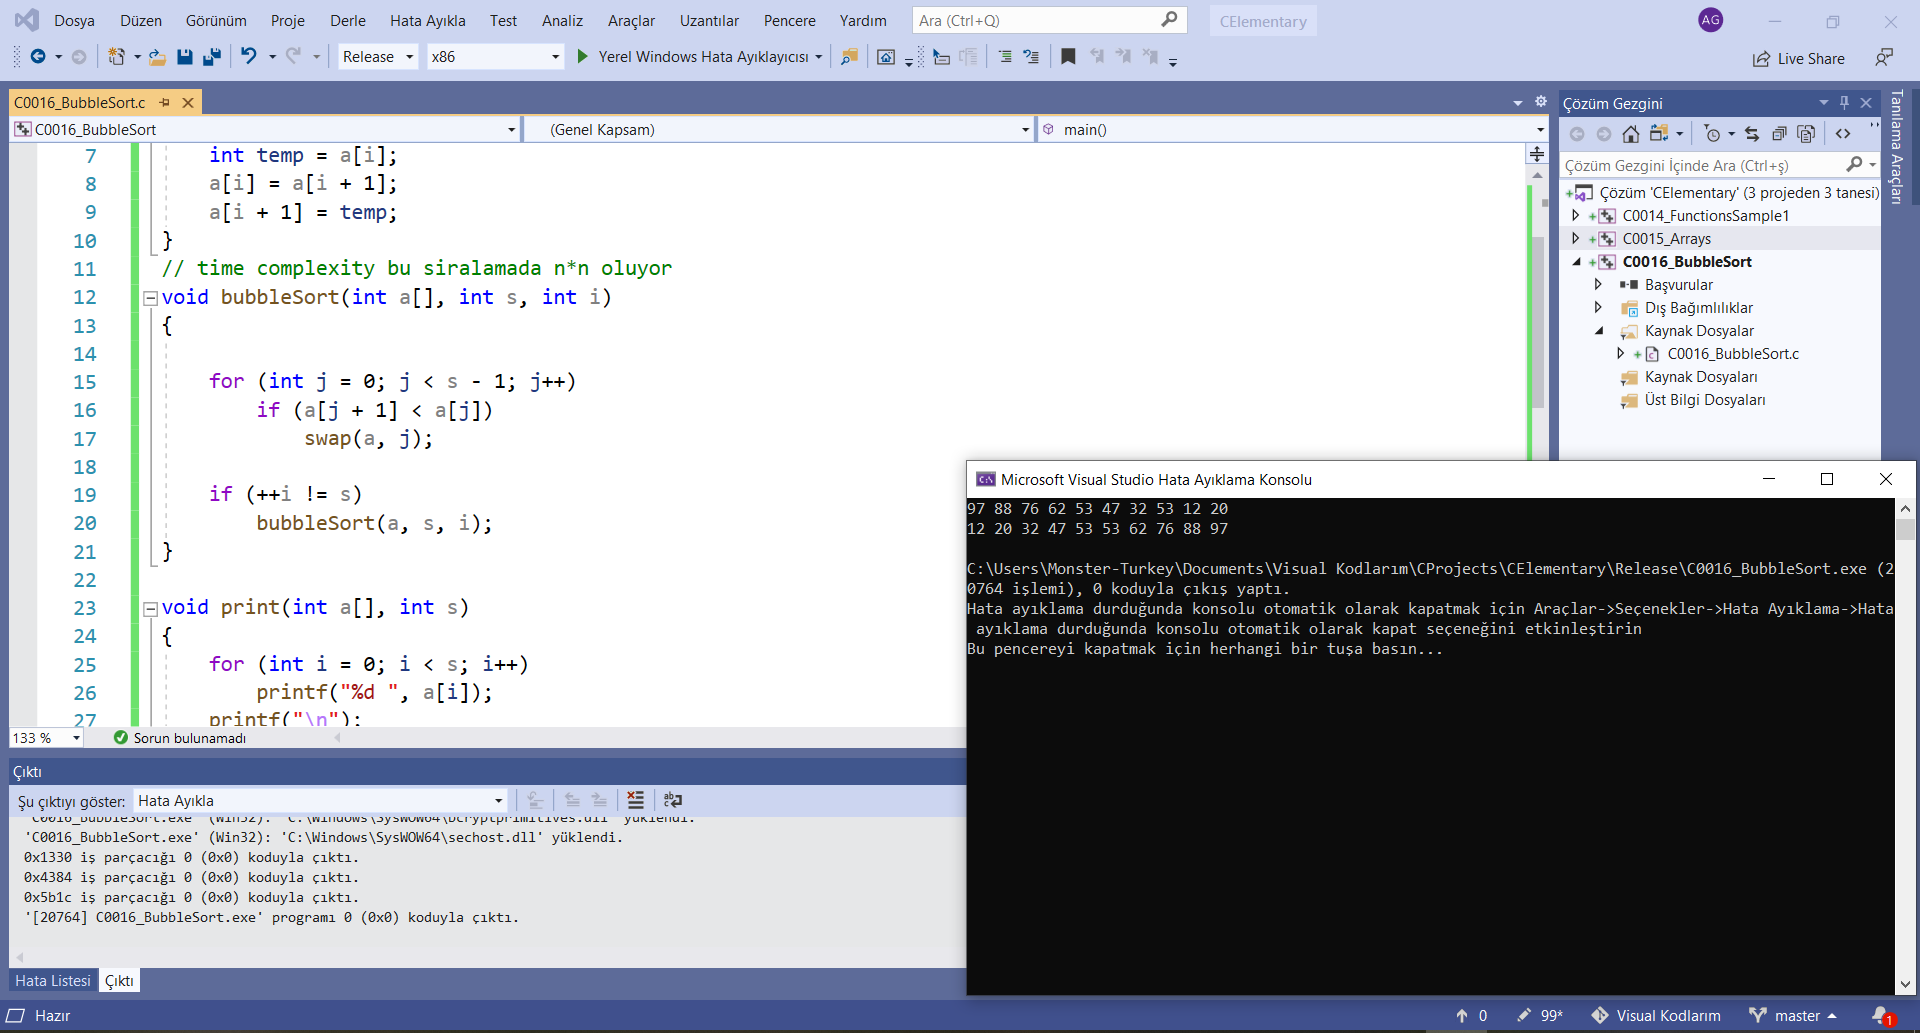
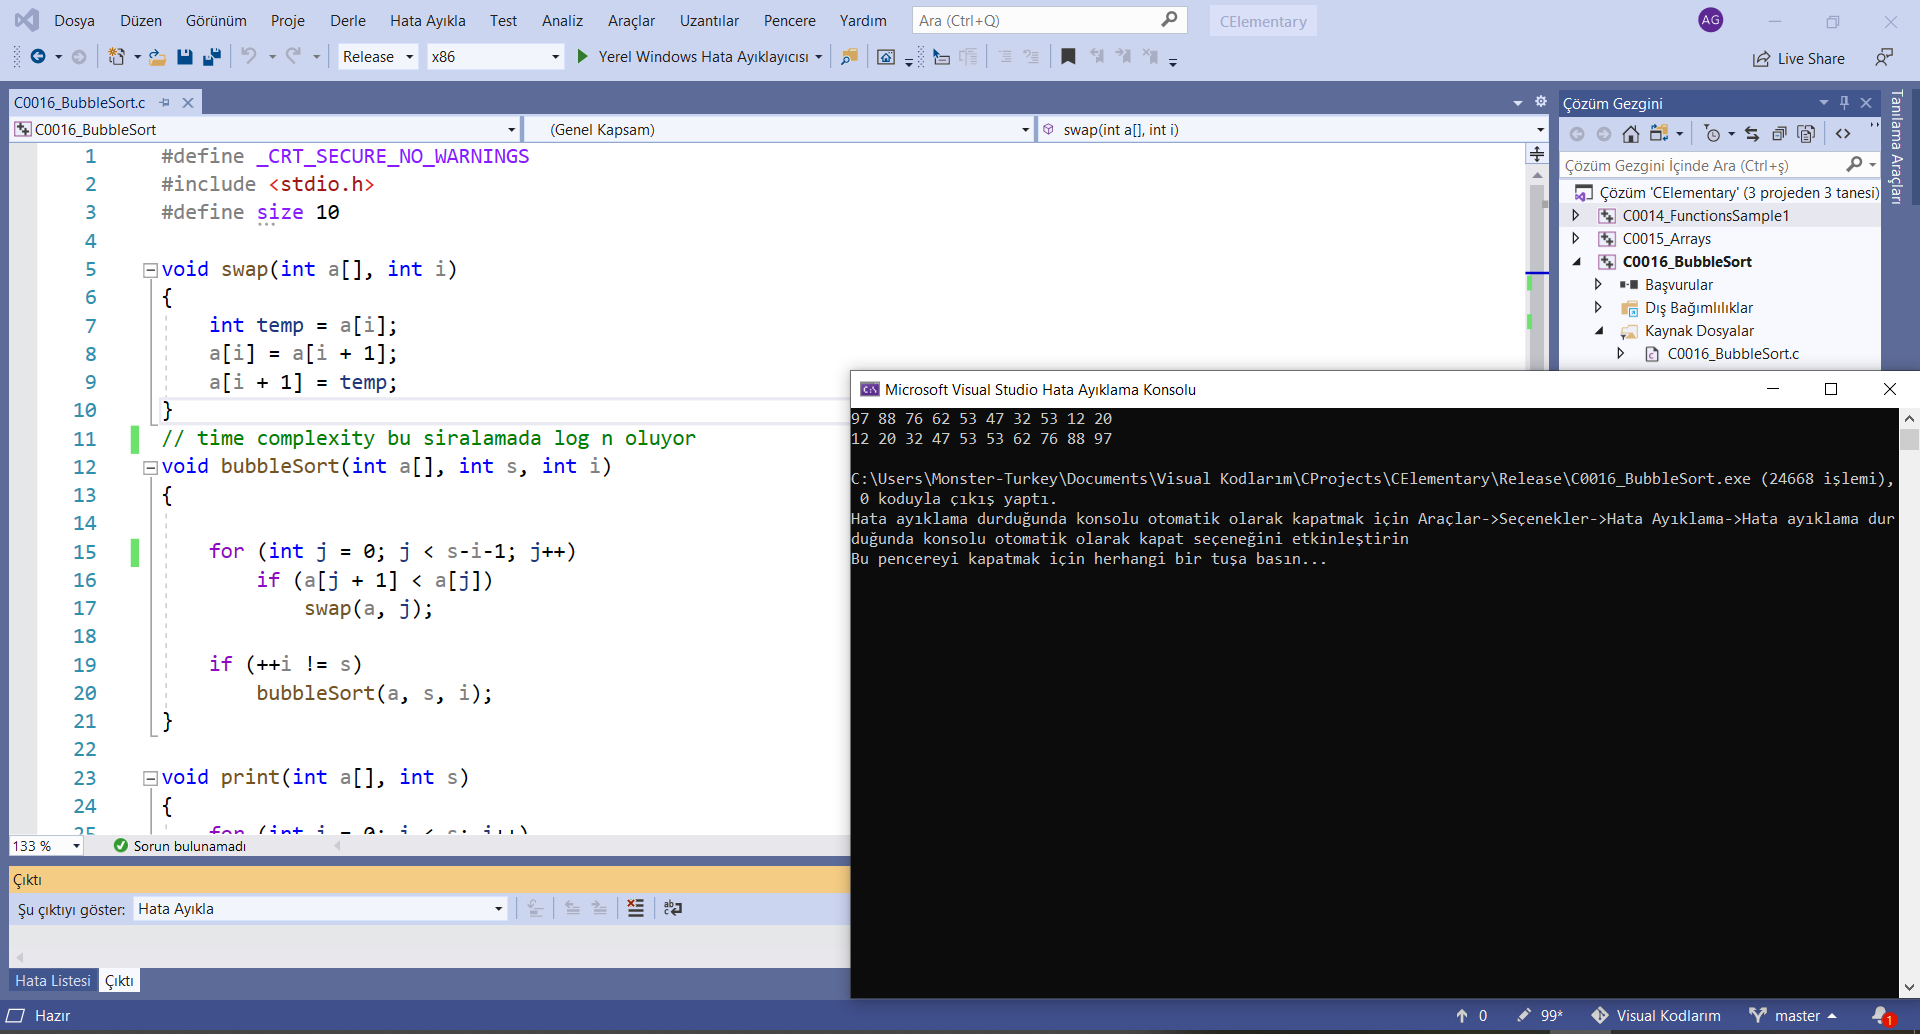
initial commit

diff --git a/C0016_BubbleSort.c b/C0016_BubbleSort.c
@@ -8,11 +8,11 @@ void swap(int a[], int i)
 	a[i] = a[i + 1];
 	a[i + 1] = temp;
 }
-// time complexity bu siralamada n*n oluyor
+// time complexity bu siralamada log n oluyor
 void bubbleSort(int a[], int s, int i)
 {
 
-	for (int j = 0; j < s - 1; j++)
+	for (int j = 0; j < s-i-1; j++)
 		if (a[j + 1] < a[j])
 			swap(a, j);
 
